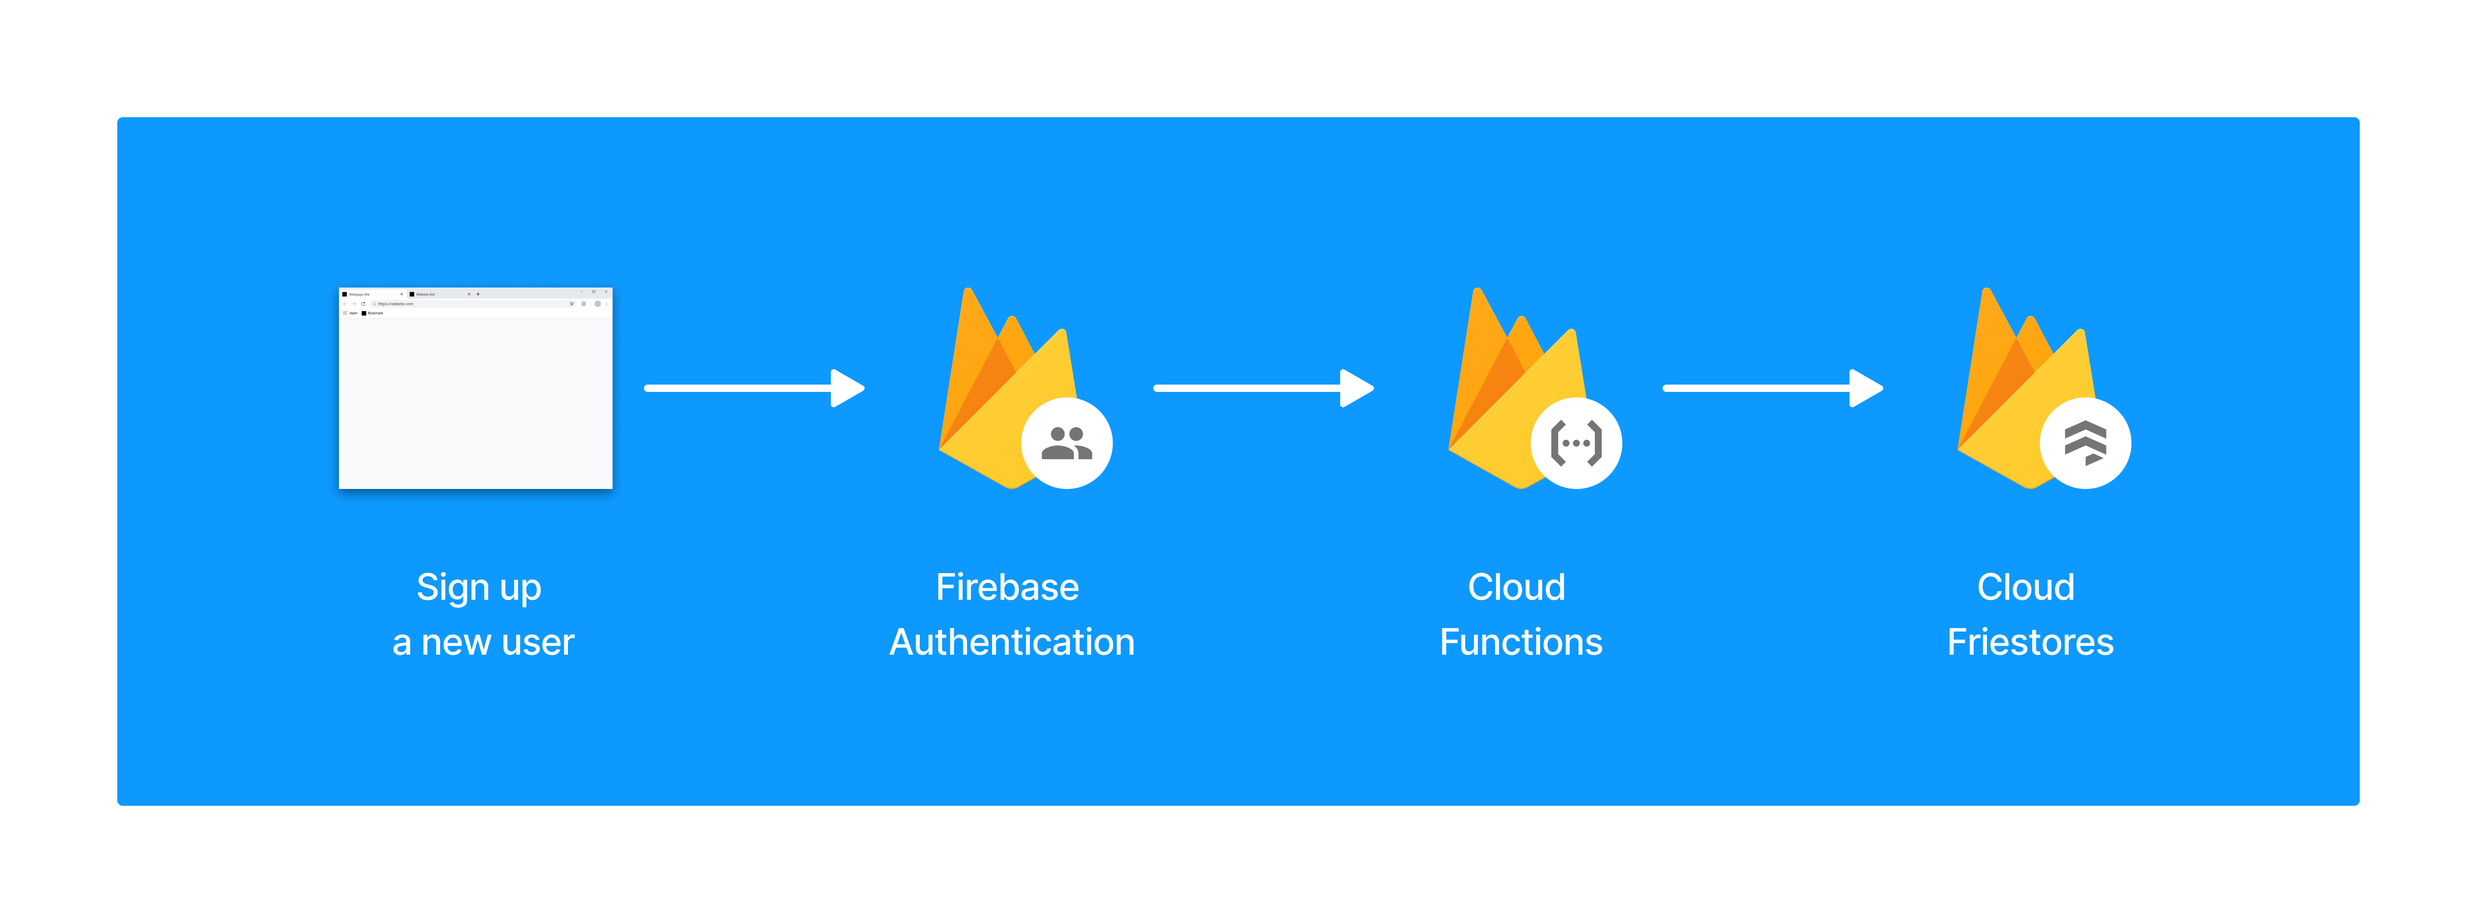
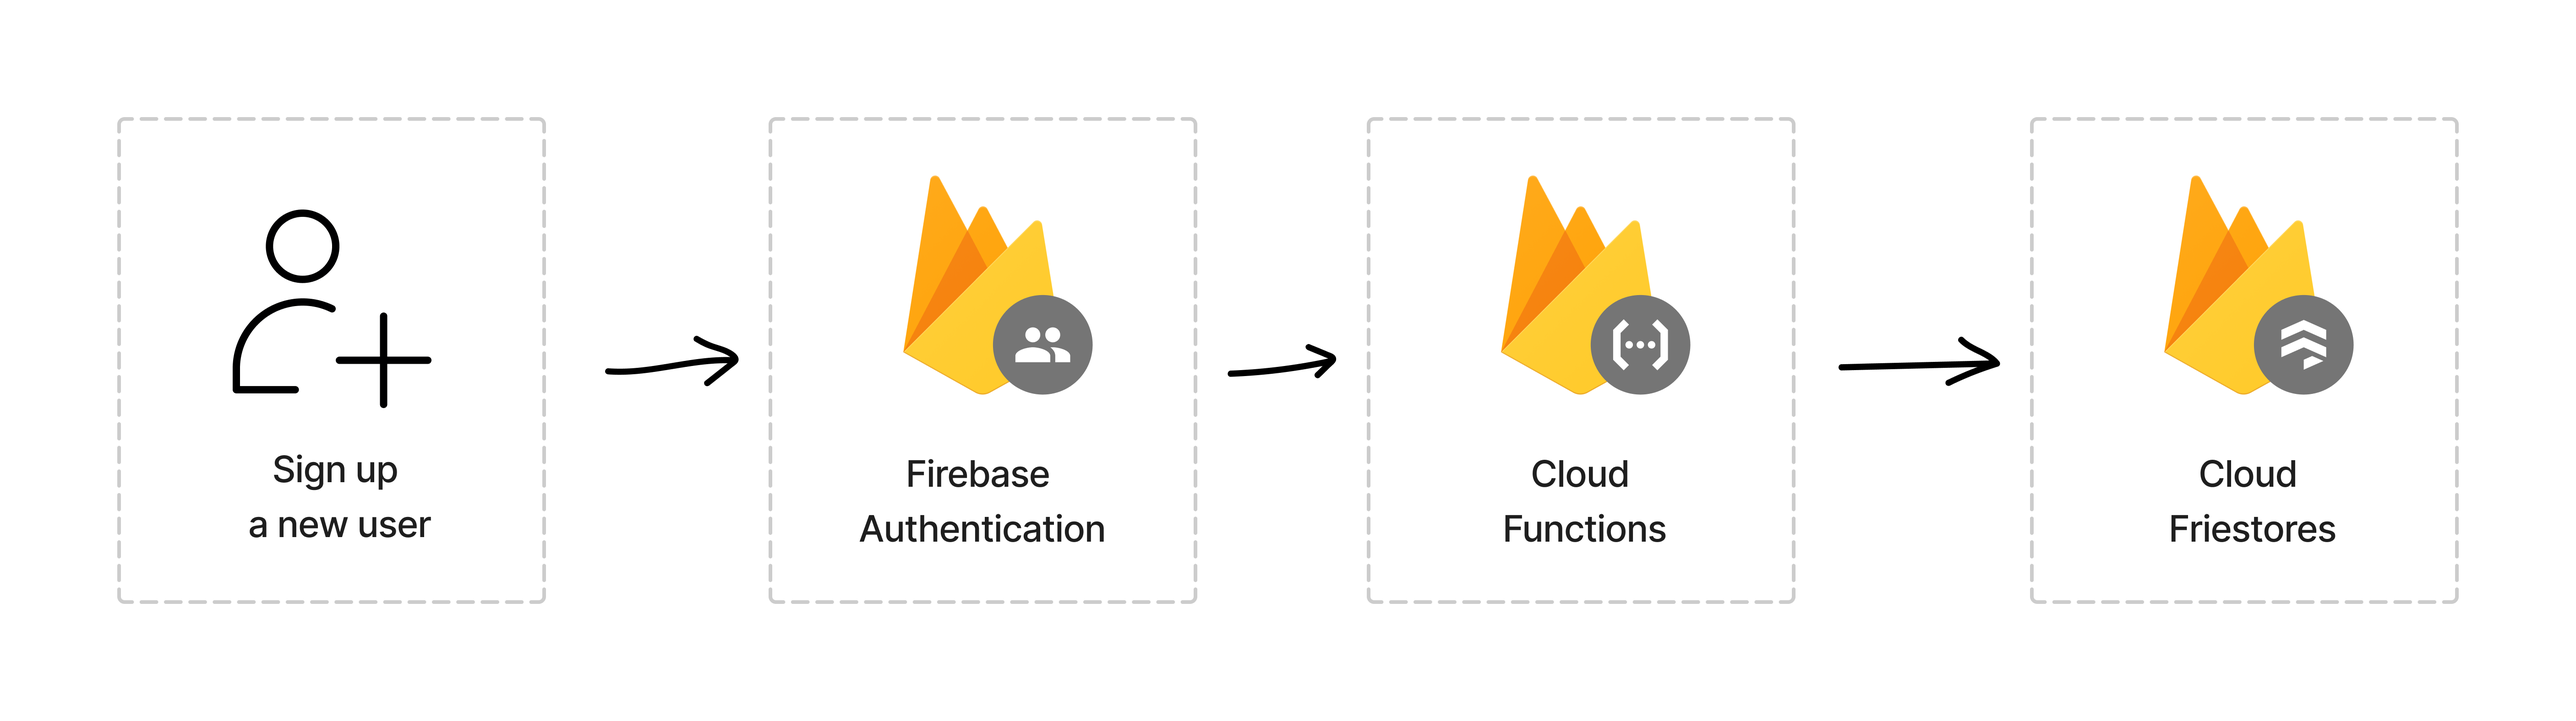
changed the images and made some parts more clearer

diff --git a/data/blog/firebase-functions.md b/data/blog/firebase-functions.md
@@ -7,19 +7,24 @@ summary: 'Firebase Functions is a powerful tool that allows developers to build 
 theme: 'blue'
 ---
 
-Before we begin, it is important to note that this is only a brief overview of Firebase Functions and that you are already familiar with it.
+Before we begin, it should be noted that if you are not familiar with Firebase Functions, this article will get you right up to speed! If you are experienced with them, there might be some interesting pieces that you are unaware of.
 
 Let's look at the Firebase Functions definition provided by Google:
 
 > Cloud Functions for Firebase is a serverless framework that lets you automatically run backend code in response to events triggered by Firebase features and HTTPS requests. Your JavaScript or TypeScript code is stored in Google's cloud and runs in a managed environment. There's no need to manage and scale your own servers.
 
-We no longer need to create, distribute, and maintain backend APIs thanks to Firebase Functions. For instance, when a new user signs up with Firebase Authentication and we want to store a record in our database, we also don't want to allow write access to our database from the front end, so we write and deploy a cloud function to handle that task instead.
+## Why do we need Firebase Functions
+
+We no longer need to create, distribute, and maintain backend APIs thanks to Firebase Functions. For instance, when a new user signs up with Firebase Authentication and we want to store a record in our database, we also don't want to allow write access to our database from the front end, so we write and deploy a cloud function to handle that task instead. You can see more scenarios [here](https://firebase.google.com/docs/functions/use-cases).
 
 ![The image shows a simple flow of using firebase functions.](/articles/firebase-functions/overview.png)
 
 ## Setup your project
 
-Make sure `Node.js` and `firebase-tools` are set up on your computer before moving on because Firebase functions run in a Node.js environment.
+Make sure [`Node.js`](https://nodejs.org/en/) and [`firebase-tools`](https://firebase.google.com/docs/functions/get-started#set-up-node.js-and-the-firebase-cli) are set up on your computer before moving on because Firebase Functions run in a Node.js environment.
+
+### Initialize your project
+
 Open the terminal and navigate to the folder where you want to create the project.
 
 1. Run `firebase login`
@@ -60,7 +65,7 @@ admin.initializeApp()
 
 ## Trigger Firebase Functions
 
-There are two methods for calling Firebase functions. The functions can be called directly by the **_HTTP Triggers_** method or as part of an event called **_Background Triggers_**.
+There are two methods for calling Firebase Functions. The functions can be called directly by the **HTTP Triggers** method or as part of an event called **Background Triggers**.
 
 ![The image shows methods for calling firebase functions](/articles/firebase-functions/triggers.png)
 
@@ -84,7 +89,7 @@ exports.helloWorld = functions.https.onRequest((request, response) => {
 });
 ```
 
-You must first log into Firebase before you can publish functions to it. Then, run the following command:
+To publish the function to Firebase, use the following command:
 
 ```
 Firebase deploy --only functions
@@ -92,9 +97,13 @@ Firebase deploy --only functions
 
 Then, in Firebase's functions section, you can see the function.
 
-###### Invoke an HTTP function
+![The image displays Firebase Functions' section on Firebase console](/articles/firebase-functions/firebase-functions-section.png)
 
-After you deploy an HTTP function, you can invoke it using its own unique URL. The URL includes the following, in order:
+After you deploy an HTTP function, you can invoke it using its own unique URL. The URL can be found by going to the functions section.
+
+![The image shows where you can find function's URL](/articles/firebase-functions/function-url.png)
+
+The URL includes the following, in order:
 
 - The region (or regions) to which you deployed your function. Some production functions may need to explicitly set the location to minimize network latency.
 - Your Firebase project ID
